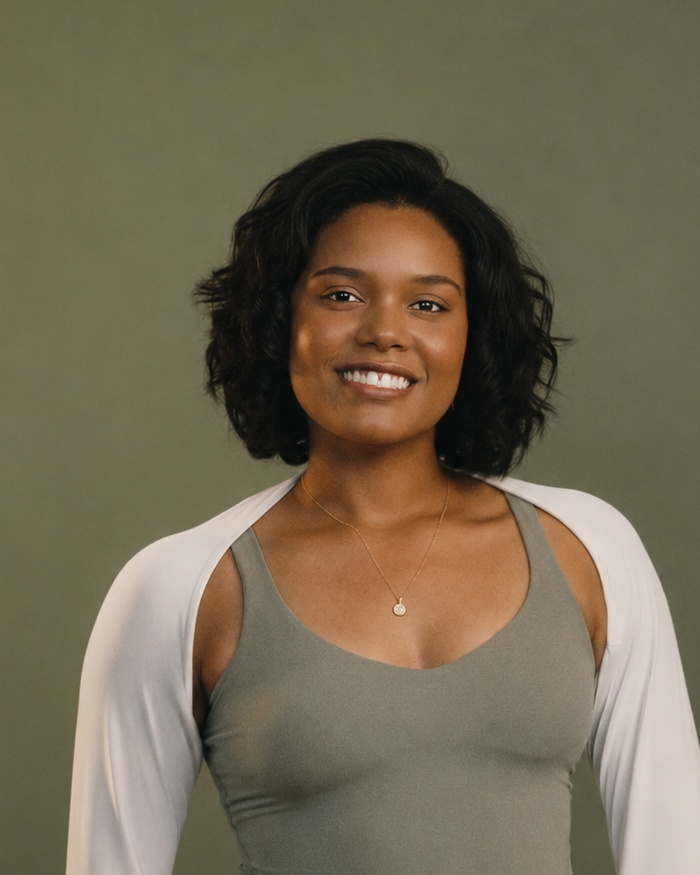
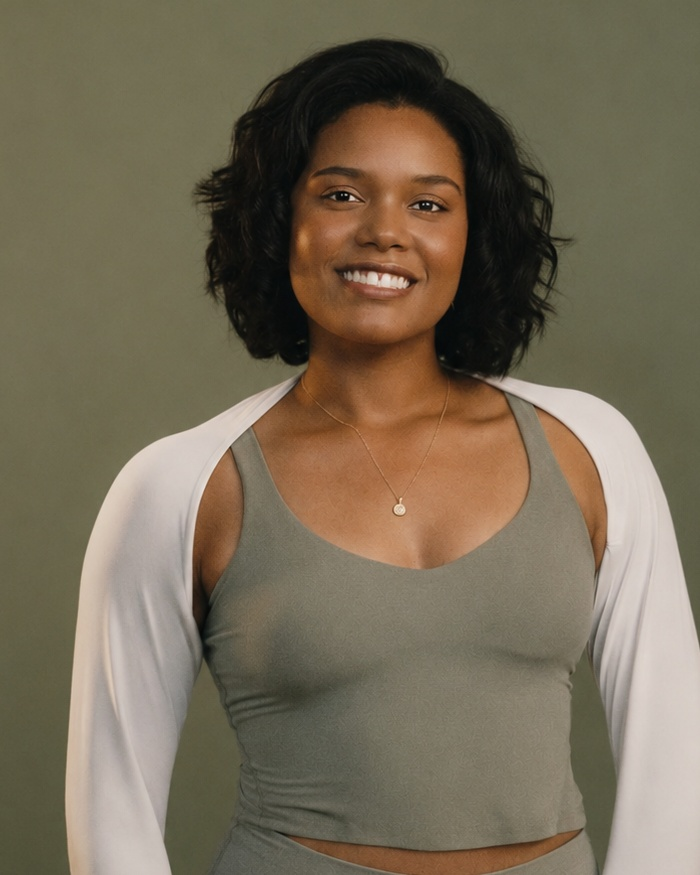
Reorder team grid, match Sarah/Emma photo scale, add trio opening-week discount
- Sarah Janae now appears above Emma Rose Farmer, cropped with tighter
  headroom to sit higher in frame
- Sarah's photo now uses the same object-position/scale treatment as Emma's
- Trios pack card: opening-week 10% off 5- and 10-packs (code OPENINGWEEK)

diff --git a/src/app/about/page.tsx b/src/app/about/page.tsx
@@ -180,61 +180,6 @@ export default function About() {
               </ExpandableBio>
             </div>
 
-            {/* Emma Rose */}
-            <div>
-              <div className="relative aspect-[4/5] overflow-hidden mb-6 bg-warm-white">
-                <Image
-                  src="/emma-rose-farmer.png"
-                  alt="Emma Rose Farmer"
-                  fill
-                  sizes="(max-width: 768px) 100vw, 50vw"
-                  className="object-cover object-[center_25%] scale-[1.1] transition-transform duration-700 sm:hover:scale-[1.15]"
-                />
-              </div>
-              <div className="flex flex-wrap items-baseline gap-x-3 gap-y-1 mb-1">
-                <h3 className="font-serif text-2xl font-light text-charcoal">
-                  Emma Rose Farmer
-                </h3>
-                <span className="text-[10px] tracking-[0.2em] uppercase text-accent/80 border border-accent/30 rounded-full px-2 py-0.5 leading-none">
-                  She/They
-                </span>
-              </div>
-              <p className="text-sm tracking-widest uppercase text-accent mb-4">
-                Instructor
-              </p>
-              <ExpandableBio>
-                <p className="text-base text-muted leading-relaxed mb-4">
-                  Born and raised in Durham, North Carolina, Emma Rose spent
-                  her formative years immersed in the vibrant dance community
-                  of the Triangle. She later attended Appalachian State
-                  University, where she earned degrees in Communications and
-                  Dance Studies. In the summer of 2025, she completed the
-                  Appalachian State Pilates Teacher Training Program, becoming
-                  a certified third-generation Classical Pilates instructor.
-                </p>
-                <p className="text-base text-muted leading-relaxed mb-4">
-                  Emma has long been passionate about using movement as a
-                  pathway to physical and mental well-being. Her introduction
-                  to Pilates came through dance during college, and the
-                  practice has had a profound impact on her life. Through
-                  consistent Pilates training, she has experienced significant
-                  relief from asthma, scoliosis, early arthritic symptoms, and
-                  previous dance-related injuries, supporting her ongoing
-                  rehabilitation and overall health.
-                </p>
-                <p className="text-base text-muted leading-relaxed mb-4">
-                  Dedicated to making Pilates accessible to all, Emma believes
-                  the method is for everyone, regardless of age, ability, or
-                  physical condition. Having personally experienced its
-                  restorative benefits, she is committed to sharing those
-                  benefits with her community. Emma strives to create a
-                  welcoming and supportive environment where clients can
-                  pursue their individual goals through mindful movement,
-                  fostering strength, balance, and lasting well-being.
-                </p>
-              </ExpandableBio>
-            </div>
-
             {/* Sarah Janae */}
             <div>
               <div className="relative aspect-[4/5] overflow-hidden mb-6 bg-warm-white">
@@ -243,7 +188,7 @@ export default function About() {
                   alt="Sarah Janae"
                   fill
                   sizes="(max-width: 768px) 100vw, 50vw"
-                  className="object-cover object-center transition-transform duration-700 sm:hover:scale-[1.05]"
+                  className="object-cover object-[center_25%] scale-[1.1] transition-transform duration-700 sm:hover:scale-[1.15]"
                 />
               </div>
               <div className="flex flex-wrap items-baseline gap-x-3 gap-y-1 mb-1">
@@ -301,6 +246,61 @@ export default function About() {
                   hopes every client leaves her class feeling stronger,
                   standing taller, and reminded that every body is worthy
                   of movement, exactly as they are.
+                </p>
+              </ExpandableBio>
+            </div>
+
+            {/* Emma Rose */}
+            <div>
+              <div className="relative aspect-[4/5] overflow-hidden mb-6 bg-warm-white">
+                <Image
+                  src="/emma-rose-farmer.png"
+                  alt="Emma Rose Farmer"
+                  fill
+                  sizes="(max-width: 768px) 100vw, 50vw"
+                  className="object-cover object-[center_25%] scale-[1.1] transition-transform duration-700 sm:hover:scale-[1.15]"
+                />
+              </div>
+              <div className="flex flex-wrap items-baseline gap-x-3 gap-y-1 mb-1">
+                <h3 className="font-serif text-2xl font-light text-charcoal">
+                  Emma Rose Farmer
+                </h3>
+                <span className="text-[10px] tracking-[0.2em] uppercase text-accent/80 border border-accent/30 rounded-full px-2 py-0.5 leading-none">
+                  She/They
+                </span>
+              </div>
+              <p className="text-sm tracking-widest uppercase text-accent mb-4">
+                Instructor
+              </p>
+              <ExpandableBio>
+                <p className="text-base text-muted leading-relaxed mb-4">
+                  Born and raised in Durham, North Carolina, Emma Rose spent
+                  her formative years immersed in the vibrant dance community
+                  of the Triangle. She later attended Appalachian State
+                  University, where she earned degrees in Communications and
+                  Dance Studies. In the summer of 2025, she completed the
+                  Appalachian State Pilates Teacher Training Program, becoming
+                  a certified third-generation Classical Pilates instructor.
+                </p>
+                <p className="text-base text-muted leading-relaxed mb-4">
+                  Emma has long been passionate about using movement as a
+                  pathway to physical and mental well-being. Her introduction
+                  to Pilates came through dance during college, and the
+                  practice has had a profound impact on her life. Through
+                  consistent Pilates training, she has experienced significant
+                  relief from asthma, scoliosis, early arthritic symptoms, and
+                  previous dance-related injuries, supporting her ongoing
+                  rehabilitation and overall health.
+                </p>
+                <p className="text-base text-muted leading-relaxed mb-4">
+                  Dedicated to making Pilates accessible to all, Emma believes
+                  the method is for everyone, regardless of age, ability, or
+                  physical condition. Having personally experienced its
+                  restorative benefits, she is committed to sharing those
+                  benefits with her community. Emma strives to create a
+                  welcoming and supportive environment where clients can
+                  pursue their individual goals through mindful movement,
+                  fostering strength, balance, and lasting well-being.
                 </p>
               </ExpandableBio>
             </div>

diff --git a/src/app/packs/page.tsx b/src/app/packs/page.tsx
@@ -402,14 +402,26 @@ export default async function Packs() {
                 );
                 const fromPrice = allPrices.length ? Math.min(...allPrices) : null;
                 if (!fromPrice) return null;
+                // Opening week promo: 10% off trio 5- and 10-packs with
+                // code OPENINGWEEK. Manually set (not a straight 10% calc)
+                // to land on the exact prices Emilie wants — update/remove
+                // once the promo ends.
+                const isTrio = g.category === "trio";
                 return (
                   <div
                     key={g.category}
                     className="flex flex-col bg-white border border-charcoal/10 rounded-sm p-7"
                   >
-                    <h3 className="font-serif text-xl font-light text-charcoal mb-1">
-                      {g.label}
-                    </h3>
+                    <div className="flex items-center gap-2 mb-1">
+                      <h3 className="font-serif text-xl font-light text-charcoal">
+                        {g.label}
+                      </h3>
+                      {isTrio && (
+                        <span className="text-[9px] tracking-[0.2em] uppercase text-accent border border-accent/30 bg-accent/5 rounded-full px-2 py-0.5 leading-none">
+                          Opening Week
+                        </span>
+                      )}
+                    </div>
                     <p className="text-sm text-muted mb-5">{g.note}</p>
 
                     <div className="space-y-2 border-t border-charcoal/5 pt-4 mb-5">
@@ -422,16 +434,37 @@ export default async function Packs() {
                       {g.five?.price !== undefined && (
                         <div className="flex justify-between text-sm">
                           <span className="text-muted">5-pack</span>
-                          <span className="text-charcoal font-medium">${g.five.price}</span>
+                          <span className="text-charcoal font-medium">
+                            {isTrio && (
+                              <span className="line-through text-muted/50 mr-1.5">
+                                ${g.five.price}
+                              </span>
+                            )}
+                            ${isTrio ? 179 : g.five.price}
+                          </span>
                         </div>
                       )}
                       {g.ten?.price !== undefined && (
                         <div className="flex justify-between text-sm">
                           <span className="text-muted">10-pack</span>
-                          <span className="text-charcoal font-medium">${g.ten.price}</span>
+                          <span className="text-charcoal font-medium">
+                            {isTrio && (
+                              <span className="line-through text-muted/50 mr-1.5">
+                                ${g.ten.price}
+                              </span>
+                            )}
+                            ${isTrio ? 335 : g.ten.price}
+                          </span>
                         </div>
                       )}
                     </div>
+
+                    {isTrio && (
+                      <p className="text-xs text-accent leading-snug">
+                        10% off 5- &amp; 10-packs this week — code{" "}
+                        <span className="font-medium">OPENINGWEEK</span> at checkout.
+                      </p>
+                    )}
                   </div>
                 );
               })}